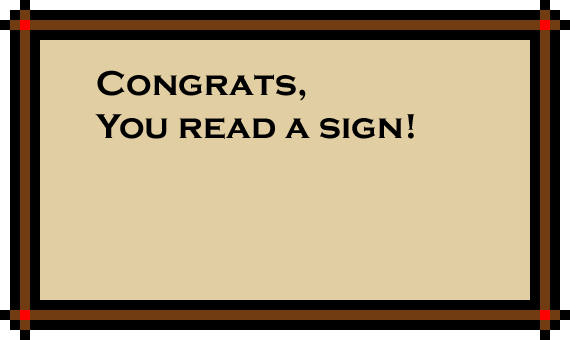
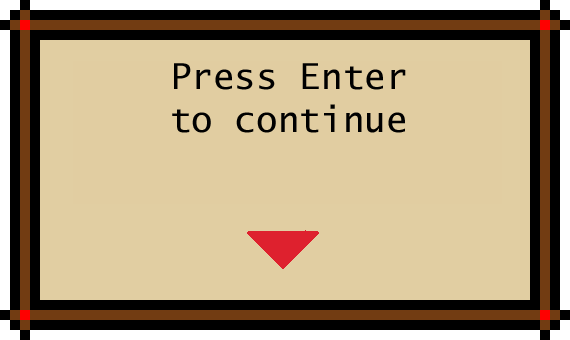
New Sign text works

Changed region(s): [[0.1491, 0.2941, 0.7456, 0.4118], [0.1491, 0.1765, 0.7158, 0.2941], [0.4175, 0.6765, 0.5667, 0.7941]]

diff --git a/core/src/gdx/menu/Screens/ScrSign.java b/core/src/gdx/menu/Screens/ScrSign.java
@@ -15,10 +15,10 @@ public class ScrSign implements Screen, InputProcessor {
     Dude dud1;
     Button btnMenu, btnPlay, btnAni, btnQuit, btnAH;
     OrthographicCamera oc;
-    Texture txNamS, txSign, txBox;
+    Texture txNamS, txSign, txBox1, txBox2;
     GamMenu gamMenu;
     SpriteBatch batch;
-    Sprite sprNamSign, sprSign, sprBox;
+    Sprite sprNamSign, sprSign, sprBox1, sprBox2;
     int nTrig = 0; //Trigger variable for sign
     public ScrSign(GamMenu _gamMenu) {  //Referencing the main class.
         gamMenu = _gamMenu;
@@ -46,17 +46,22 @@ public class ScrSign implements Screen, InputProcessor {
         sprSign.setPosition(150, 150);
         sprSign.setSize(50,50);
         sprSign.setFlip(false, true);
-        txBox = new Texture("Textbox.png");
-        sprBox = new Sprite(txBox);
-        sprBox.setSize(300, 125);
-        sprBox.setPosition(Gdx.graphics.getWidth()/2 - sprBox.getWidth()/2, 0);
-        sprBox.setFlip(false, true);
+        txBox1 = new Texture("Textbox.png");
+        sprBox1 = new Sprite(txBox1);
+        sprBox1.setSize(300, 125);
+        sprBox1.setPosition(Gdx.graphics.getWidth()/2 - sprBox1.getWidth()/2, 0);
+        sprBox1.setFlip(false, true);
+        txBox2 = new Texture("Textbox2.png");
+        sprBox2 = new Sprite(txBox2);
+        sprBox2.setPosition(Gdx.graphics.getWidth()/2 - sprBox1.getWidth()/2, 0);
+        sprBox2.setSize(300, 125);
+        sprBox2.setFlip(false, true);
         Gdx.input.setInputProcessor(this);
     }
 
     @Override
     public void render(float Delta) {
-        Gdx.gl.glClearColor(0, 1, 1, 1); //Cyan background.
+        Gdx.gl.glClearColor(0, 0, 1, 1); //Blue background.
         Gdx.gl.glClear(GL20.GL_COLOR_BUFFER_BIT);
         
         if(Gdx.input.isKeyPressed(Input.Keys.LEFT)){
@@ -69,13 +74,17 @@ public class ScrSign implements Screen, InputProcessor {
             dud1.setY(dud1.getY()+5);
         }
 
-        if(isHitS(dud1, sprSign) && nTrig != 1){
+        if(isHitS(dud1, sprSign) && nTrig == 0){
             System.out.println("Read Sign");
             nTrig = 1;
-        } else if(! isHitS(dud1, sprSign)){
+        } else if(isHitS(dud1, sprSign) && nTrig == 3){
+            nTrig = 3;
+        }else if(! isHitS(dud1, sprSign)){
             nTrig = 0;
         }
-        
+        if(nTrig == 1 && Gdx.input.isKeyPressed(Input.Keys.ENTER)){
+            nTrig = 3;
+        }
         batch.begin();
         batch.setProjectionMatrix(oc.combined);
         btnPlay.draw(batch);
@@ -87,7 +96,9 @@ public class ScrSign implements Screen, InputProcessor {
         dud1.draw(batch);
         btnAH.draw(batch);
         if(nTrig == 1){
-            sprBox.draw(batch);
+            sprBox1.draw(batch);
+        } else if(nTrig == 3){
+            sprBox2.draw(batch);
         }
         batch.end();
     }

diff --git a/core/src/gdx/menu/Screens/ScrPlay.java b/core/src/gdx/menu/Screens/ScrPlay.java
@@ -146,6 +146,9 @@ public class ScrPlay implements Screen, InputProcessor {
             } else if (isHitB(screenX, screenY, btnQuit)){
                 System.out.println("Quit");
                 System.exit(0);
+            } else if (isHitB(screenX, screenY, btnAH)){
+                System.out.println("Hit AniHit");
+                gamMenu.updateState(4);
             }
         }
         return false;
